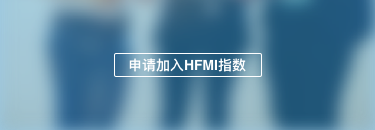
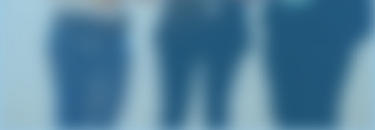
申请试用，基金评价微调

Changed region(s): [[0.2933, 0.4, 0.704, 0.5538], [0.2933, 0.5538, 0.704, 0.6154]]

diff --git a/fofeasy_mobile/exponential.html b/fofeasy_mobile/exponential.html
@@ -10,6 +10,9 @@
 		<link rel="stylesheet" href="css/public.css" />
 		<link rel="stylesheet" href="css/index.css" />
 		<script src="js/highcharts.js"></script>
+		
+		<script type="text/javascript" src="js/bootstrap.min.js"> </script>
+		<script src="https://cdn.bootcss.com/bootstrap/3.3.7/js/bootstrap.min.js"></script>
     	<style type="text/css">
     		.product_img{  			
     			height:245px;
@@ -20,6 +23,11 @@
     		.exponent4 li{
     			margin-left: 20px;
 				list-style-image: url(img/assess3.png);
+			}
+			
+			.assess6 .card .con:nth-child(1) {
+				background:url('img/assess6-report@2x.png') top left no-repeat;
+				background-size: cover;
 			}
     		/*.sy-header .head {
 			    background: transparent;
@@ -70,22 +78,17 @@
 			</div>
 			
 			<!--主体5  往期报告-->
-			<!--<div class="exponent-5 leave-white">
-				<div class="">
-					
-				</div>
-				<div class="card">
-					
-				</div>
-			</div>-->
+			
 			<div class="exponent3 assess6 leave-white" >
 				<div class="mian-title " >
 					往期报告
 				</div>
 				<div class="card ">
 					<div class="con " >
-						<div class="img">
-							<img src="img/exponent-report.png"/>
+						<div class="img" >
+							<div class="quarterly" >
+								2018年11月
+							</div>
 						</div>
 					</div>
 					<div class="con">
@@ -103,8 +106,10 @@
 				
 				<div class="card ">
 					<div class="con " >
-						<div class="img">
-							<img src="img/exponent-report.png"/>
+						<div class="img" >
+							<div class="quarterly" >
+								2018年11月
+							</div>
 						</div>
 					</div>
 					<div class="con">
@@ -122,8 +127,10 @@
 				
 				<div class="card ">
 					<div class="con " >
-						<div class="img">
-							<img src="img/exponent-report.png"/>
+						<div class="img" >
+							<div class="quarterly" >
+								2018年11月
+							</div>
 						</div>
 					</div>
 					<div class="con">
@@ -138,7 +145,7 @@
 						</div>
 					</div>
 				</div>
-				<div class="">
+				<div class="page" style="height: 80px;">
 					<nav class="pull-right" aria-label="Page navigation" style="">
 					  <ul class="pagination">
 					    <li>
@@ -157,8 +164,37 @@
 				</div>
 			</div>
 			
-			<div >
-				<img src="img/exponent-apply.png"/>
+			<div class="applyadd" style="background: url(img/exponent-apply.png) top left no-repeat;">
+				<a target="_blank">
+					<div class="" data-toggle="modal" data-target="#myModal">
+						申请加入HFMI指数
+					</div>
+				</a>
+			</div>
+			
+			
+			<!-- 模态框（Modal） -->
+			<div class="modal fade" id="myModal" tabindex="-1" role="dialog" aria-labelledby="myModalLabel" aria-hidden="true">
+				<div class="modal-dialog">
+					<div class="modal-content">
+						<div class="modal-header">
+							<button type="button" class="close" data-dismiss="modal" aria-hidden="true">
+								&times;
+							</button>
+							<h4 class="modal-title" id="myModalLabel" style="font-size: 14px;text-align: left;">
+								HFMI指数持续招募中，请扫描下方二维码
+							</h4>
+						</div>
+						<div class="modal-body">
+							<img src="img/HFMI.jpg" width="50%"/>
+						</div>
+						<div class="modal-footer">
+							<button type="button" class="btn btn-default" data-dismiss="modal">关闭
+							</button>
+							
+						</div>
+					</div><!-- /.modal-content -->
+				</div><!-- /.modal -->
 			</div>
 			
 			<div class="exponent4  leave-white" style="height: 450px;">
@@ -228,7 +264,7 @@
                         se.data=resp.records[i].data;
                         se.name=resp.records[i].latest.index_name;
                         se.fillColor={
-                            linearGradient: [0, 0, 0, 200],
+                            linearGradient: [0, 0, 0, 170],
                             stops: [
                                 [0, colors2[i]],
                                 [1, Highcharts.Color(colors2[i]).setOpacity(0).get('rgba')]
@@ -241,6 +277,12 @@
                             series[i].visible = false;
                             //gs.series[i].yAxis = 1;
                         }
+                        
+                        var name=n.name.substring(n.name.length-4,n.name.length);
+                    	var newname=n.name.substring(0,n.name.length-4);
+                    	if(name=="私募指数"){
+                    		n.name=newname;
+                    	}
                     })
                      initArea($("#hedgeLineChart"),{date:categories,series:series},{
                      	x_tickmarkPlacement:'between',
@@ -252,6 +294,7 @@
                             enabled:true,
                         },
                         type:"areaspline" ,
+                       
                     })
                 }
             }
@@ -303,11 +346,11 @@
 		dom.highcharts({
 			chart : {
 				zoomType : data.zoomType,
-				type : data.type||'area'
+				type : data.type||'column'
 			},
 			colors : data.color || [ '#2765B9', '#2C8CF8', '#FB88B3', '#D72F54', '#9370DB' ],
 			title : {
-				text : ' '
+				text : ''
 			},
 			xAxis : {
 				type : data.xType||"categories",

diff --git a/fofeasy_mobile/assess.html b/fofeasy_mobile/assess.html
@@ -15,19 +15,14 @@
     			background: url('img/top-bg-assess.png') top center no-repeat;
     			background-size: 100%;
     		}
-    		
-    		.assess3 li{
-    			margin-left: 20px;
-				list-style-image: url(img/assess3.png);
-			}
-			
-			.assess4 li{
-    			margin-left: 20px;
-				list-style-image: url(img/assess3.png);
-			}
 			
 			.assess6 .card .con .mui-ellipsis-2 {
 				-webkit-line-clamp: 2;
+			}
+			
+			.assess6 .card .con:nth-child(1) {
+				background:url('img/assess6-report@2x.png') top left no-repeat;
+				background-size: cover;
 			}
     	</style>
 	</head>
@@ -51,7 +46,6 @@
 					云通基金研究智库对现有的基金评级方法进行了全面、深入地研究和剖析。在广泛借鉴国内外基金评级方法的基础上，私募云通悉心研发出一套可以进行闭环检验的私募证券基金评价系统，力求进行独立、客观、专业的基金评价，科学地评估私募证券基金的业绩表现，进而推动基金行业的健康发展。
 				</div>
 			</div>
-			
 			
 			<!--主体2-->
 			<div class="assess2 leave-white">
@@ -104,12 +98,15 @@
 					<div class="card">
 						<ul class="">
 							<li class="">
+								<img src="img/assess3@2x.png"/>
 								充分兼顾基金评级的持续性和灵敏性两方面要求。科学切分样本，循环滚动训练集与测试集，不断优化，得到最优参数和综合评级的权重，力求更加准确的基金评级结果。
 							</li>
 							<li class="">
+								<img src="img/assess3@2x.png"/>
 								对风险调整参数γ与综合评级权重w进行不同时间长度和不同滚动方式（平滑滚动和外推滚动）训练，将基金业绩的可预测性作为训练评级参数的一个重要考量因素。
 							</li>
 							<li class="">
+								<img src="img/assess3@2x.png"/>
 								通过优化，我们解决了以往私募基金评级中出现的评级参数和权重的主观选择问题。同时，私募云通基于机器学习的方法，实现了智能化基金评级，实现闭环检验。
 							</li>
 						</ul>
@@ -128,18 +125,20 @@
 				<div class="card">
 					<ul class="">
 						<li class="">
+							<img src="img/assess3@2x.png"/>
 							评级转移矩阵准则，包括：主队角站优度、次对角占优度和高星级转移度。
 						</li>
 						<li class="">
+							<img src="img/assess3@2x.png"/>
 							高星级基金评级转移矩阵。
 						</li>
 						<li class="">
+							<img src="img/assess3@2x.png"/>
 							损失函数准则包括：均方误差(MSE)、均方根误差(RMSE)和绝对平均误差(MAE)。
 						</li>
 					</ul>
 				</div>
 			</div>
-			
 			
 			<!--主体5-->
 			<div class="assess5 leave-white">
@@ -151,7 +150,6 @@
 				</div>
 			</div>
 			
-			
 			<!--主体6-->
 			<div class="assess6 leave-white" >
 				<div class="mian-title ">
@@ -159,8 +157,10 @@
 				</div>
 				<div class="card ">
 					<div class="con " >
-						<div class="img">
-							<img src="img/assess6-report.png"/>
+						<div class="img" >
+							<div class="quarterly" >
+								2018年-季度报告
+							</div>
 						</div>
 					</div>
 					<div class="con">
@@ -179,8 +179,10 @@
 				
 				<div class="card ">
 					<div class="con " >
-						<div class="img">
-							<img src="img/assess6-report.png"/>
+						<div class="img" >
+							<div class="quarterly" >
+								2018年-季度报告
+							</div>
 						</div>
 					</div>
 					<div class="con">
@@ -199,8 +201,10 @@
 				
 				<div class="card ">
 					<div class="con " >
-						<div class="img">
-							<img src="img/assess6-report.png"/>
+						<div class="img" >
+							<div class="quarterly" >
+								2018年-季度报告
+							</div>
 						</div>
 					</div>
 					<div class="con">

diff --git a/fofeasy_mobile/css/index.css b/fofeasy_mobile/css/index.css
@@ -1360,6 +1360,10 @@ margin-bottom:10px ;
  * 评价服务
  * */
 
+.assess ul{
+	padding-left: 20px;
+}
+
 .assess2 .card .con .con1{
 	display: inline-block;
 	height: 120px;
@@ -1390,13 +1394,21 @@ margin-bottom:10px ;
 	border-bottom: 1px solid #D8D8D8;
 }
 
-.assess3 li{
+.assess li{
 	font-family: Helvetica;
 	font-size: 10px;
 	color: #484848;
 	text-align: justify;
 	line-height: 14px;
 	margin-top: 10px;
+	position: relative;
+}
+
+.assess .card ul img{
+	position: absolute;
+    top: 0;
+    left: -20px;
+    width: 16px;
 }
 
 .assess4 li{
@@ -1432,12 +1444,9 @@ margin-bottom:10px ;
 	text-align: left;
 }
 
-.assess6 .card .con:nth-child(1){
-	flex: 2;
-}
-
 .assess6 .card .con:nth-child(2){
 	flex: 3;
+	margin-left: 10px;
 }
 
 .assess6 .card .con div:nth-child(1){
@@ -1447,8 +1456,25 @@ margin-bottom:10px ;
 	margin-bottom: 10px;
 }
 
+.assess6 .card .con:nth-child(1){
+	flex: 2;
+}
+
 .assess6 .card .con div:nth-child(2){
-	margin-bottom: 15px;
+	margin-bottom: 12px;
+}
+
+.assess6 .card .con:nth-child(1) .quarterly{
+	font-size:10px;
+	width:90px;
+	border: 1px solid white;
+	border-radius: 2px;
+	height: 25px;
+	line-height: 25px;
+	color: white;
+	margin: 0 auto;
+	text-align: center;
+	margin-top: 32px;
 }
 
 .assess6 .card .con .mui-ellipsis-2 {
@@ -1465,9 +1491,8 @@ margin-bottom:10px ;
 	float: right;
 }
 
-.assess6 .right .img{
+.assess6 .right img{
 	padding-left:5px;
-	background:url('img/top-bg-apply.png') top center no-repeat;
 }
 
 /*
@@ -1500,6 +1525,22 @@ margin-bottom:10px ;
 	margin-top: 10px;
 }
 
+.applyadd {
+	background-size: cover;
+	height: 130px;
+	padding-top: 50px;
+	
+}
+
+.applyadd div{
+	border: 1px solid white;
+	border-radius: 4px; 
+	color: white;
+	text-align: center;
+	width: 180px;
+	height: 30px;line-height: 30px;
+	margin: 0 auto;
+}
 
 /*
  研究院
